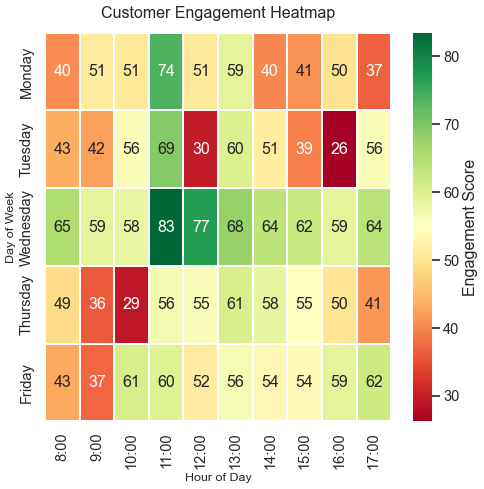
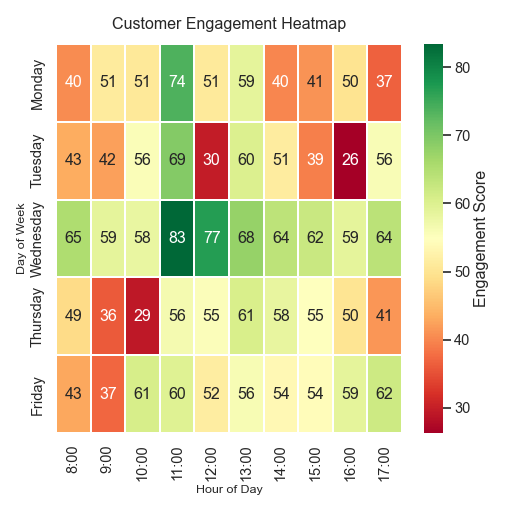
update6

Changed region(s): [[0.0, 0.0, 0.9917, 0.9816]]

diff --git a/chart.py b/chart.py
@@ -28,7 +28,7 @@ for day in days:
 df = pd.DataFrame(data, index=days, columns=hours)
 
 # Create the heatmap
-plt.figure(figsize=(8, 8))  # 512x512 pixels at dpi=64
+plt.figure(figsize=(8, 8), dpi=64)  # 8 inches * 64 dpi = 512 pixels
 ax = sns.heatmap(
     df,
     annot=True,
@@ -44,5 +44,5 @@ plt.ylabel("Day of Week", fontsize=14)
 plt.tight_layout()
 
 # Save the chart as PNG with exactly 512x512 pixels
-plt.savefig("chart.png", dpi=64, bbox_inches='tight')
+plt.savefig("chart.png")
 plt.close()
